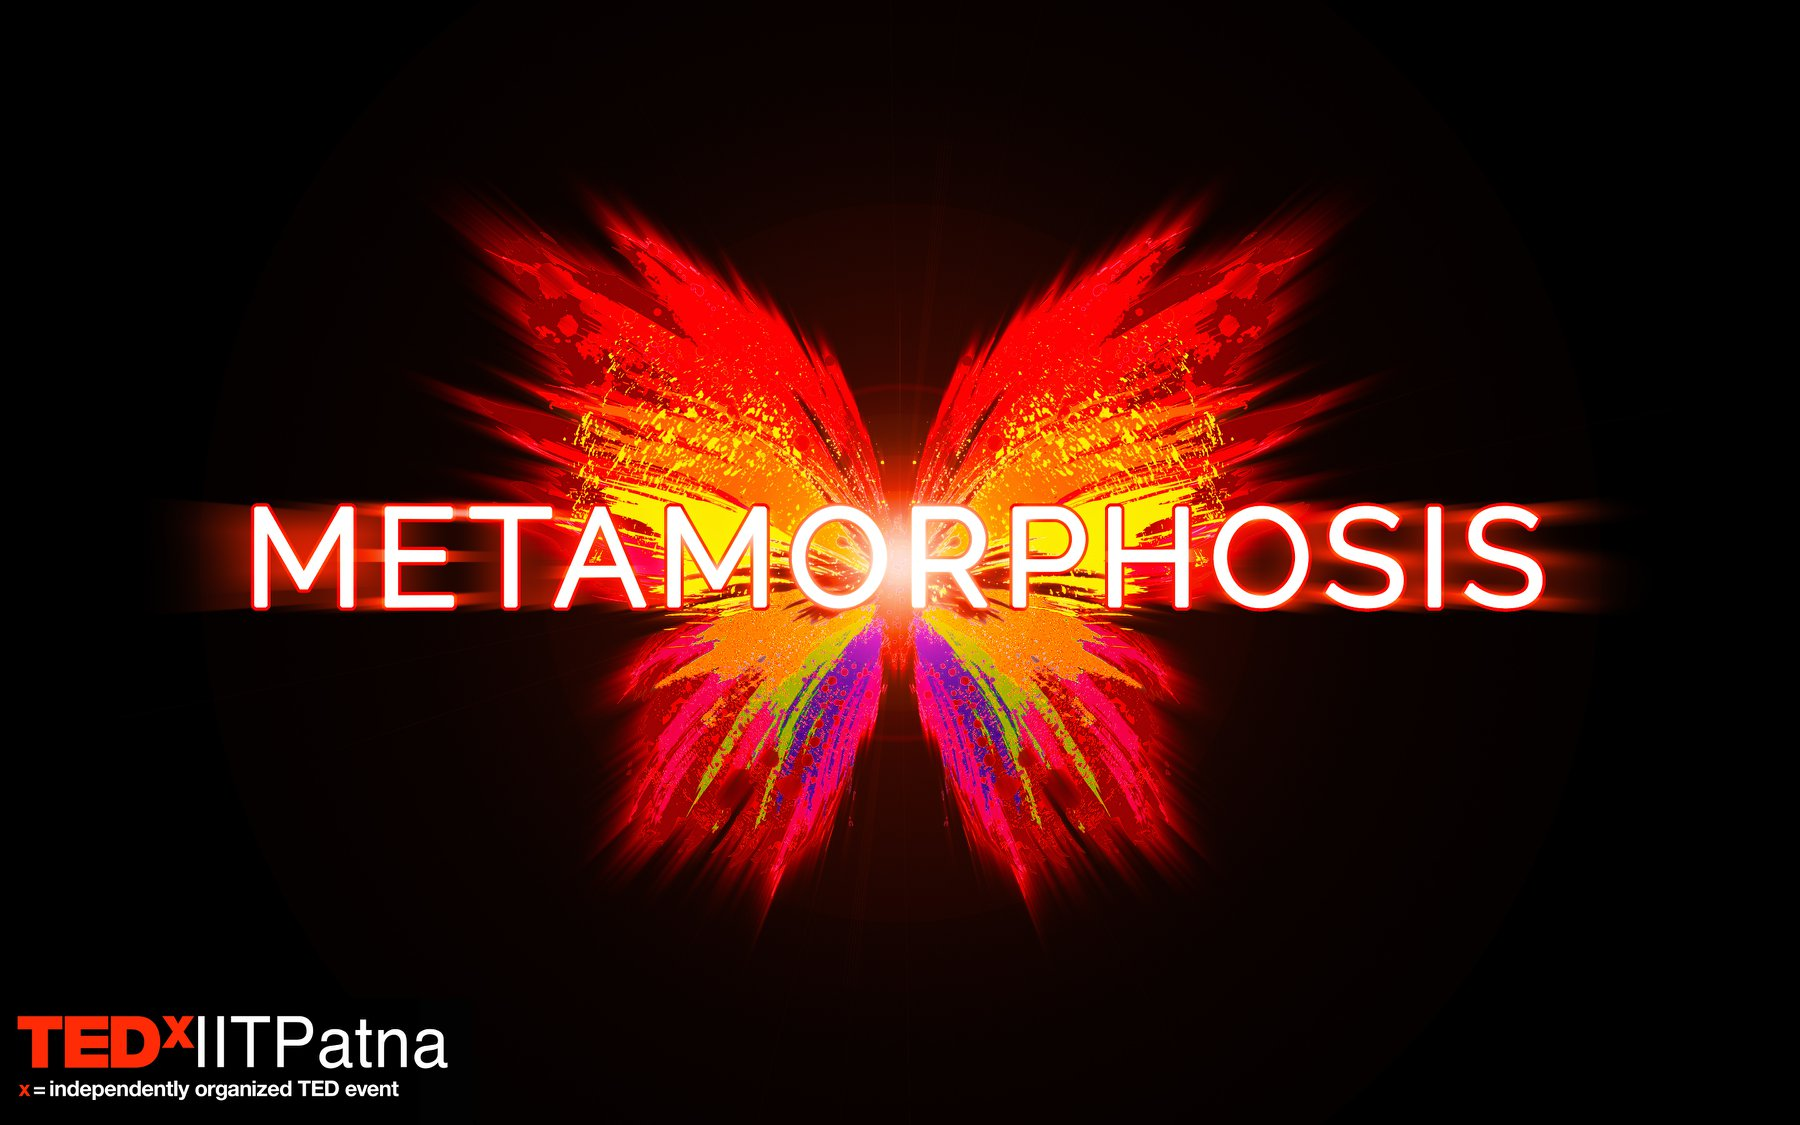
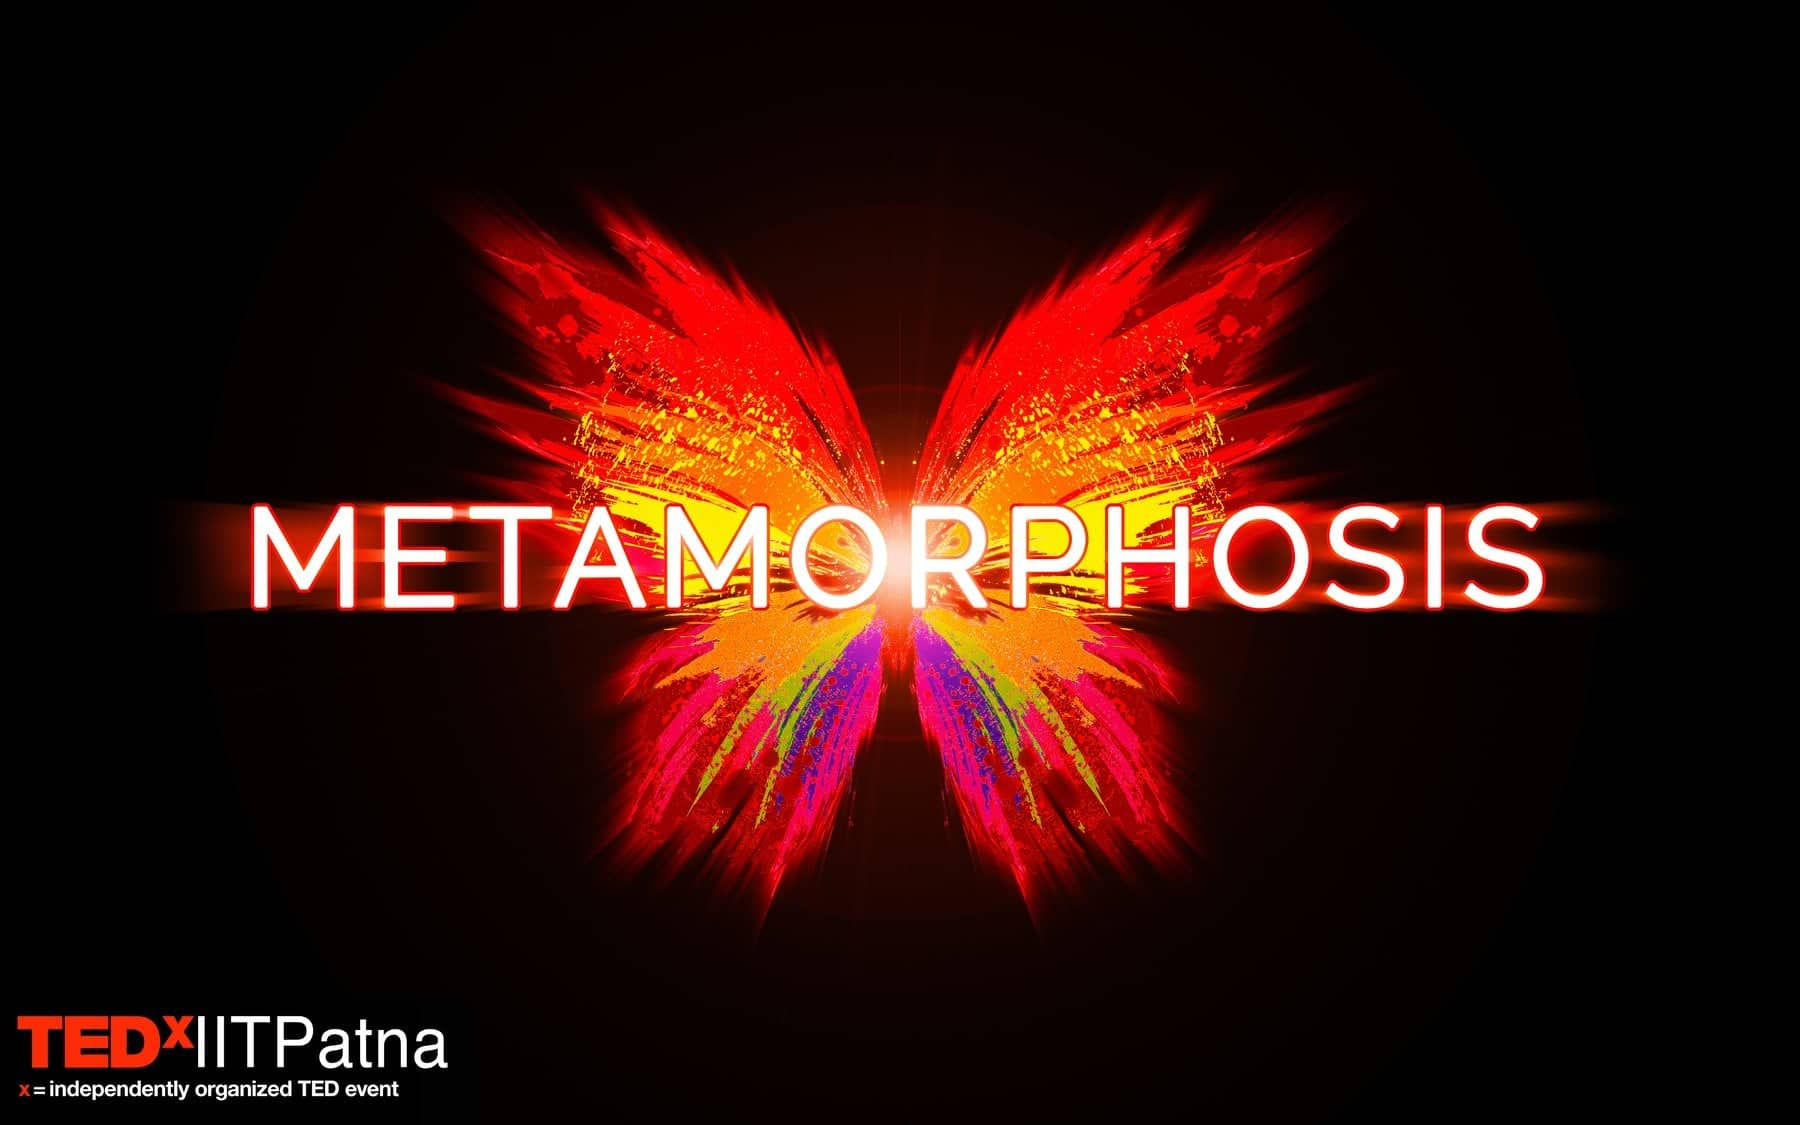
Reduced image size

diff --git a/index.html b/index.html
@@ -369,7 +369,7 @@
 
       <div
         class="heading text-center"
-        style="background-image: url('images/back_ted.png');margin-bottom: 50px;"
+        style="background-image: url('images/back_ted.jpg');margin-bottom: 50px;"
       >
         <br />
         <br />
